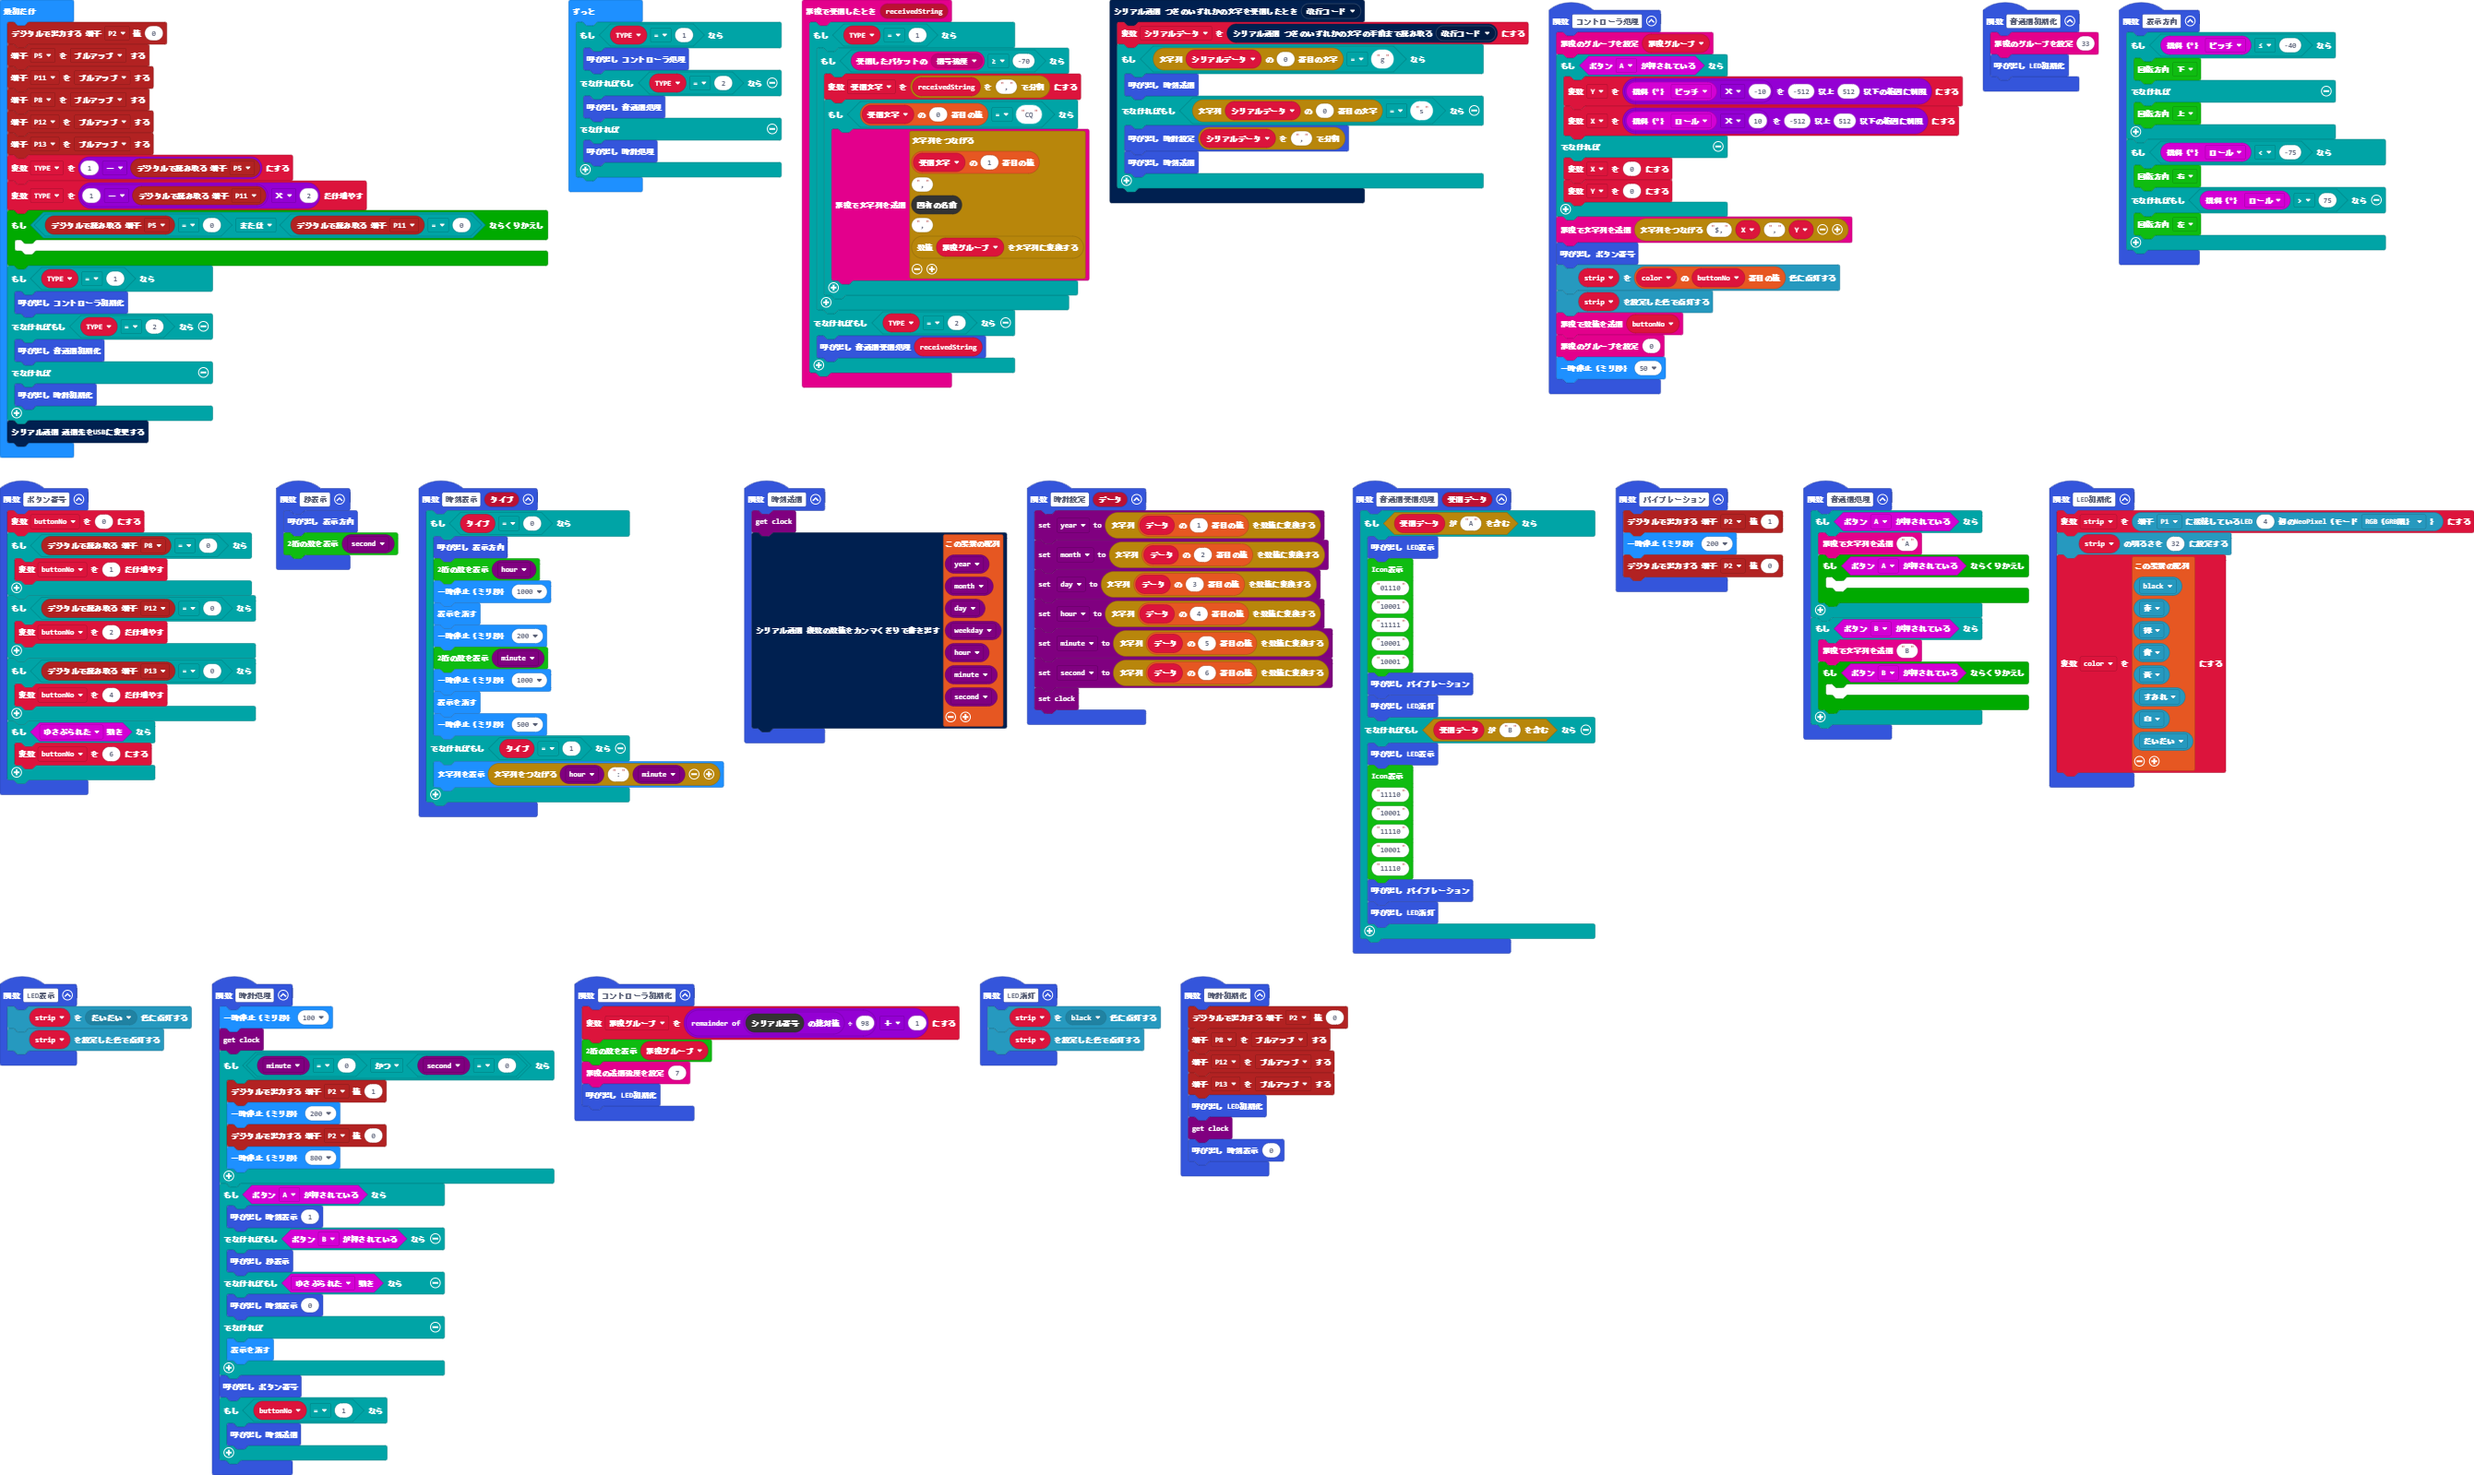
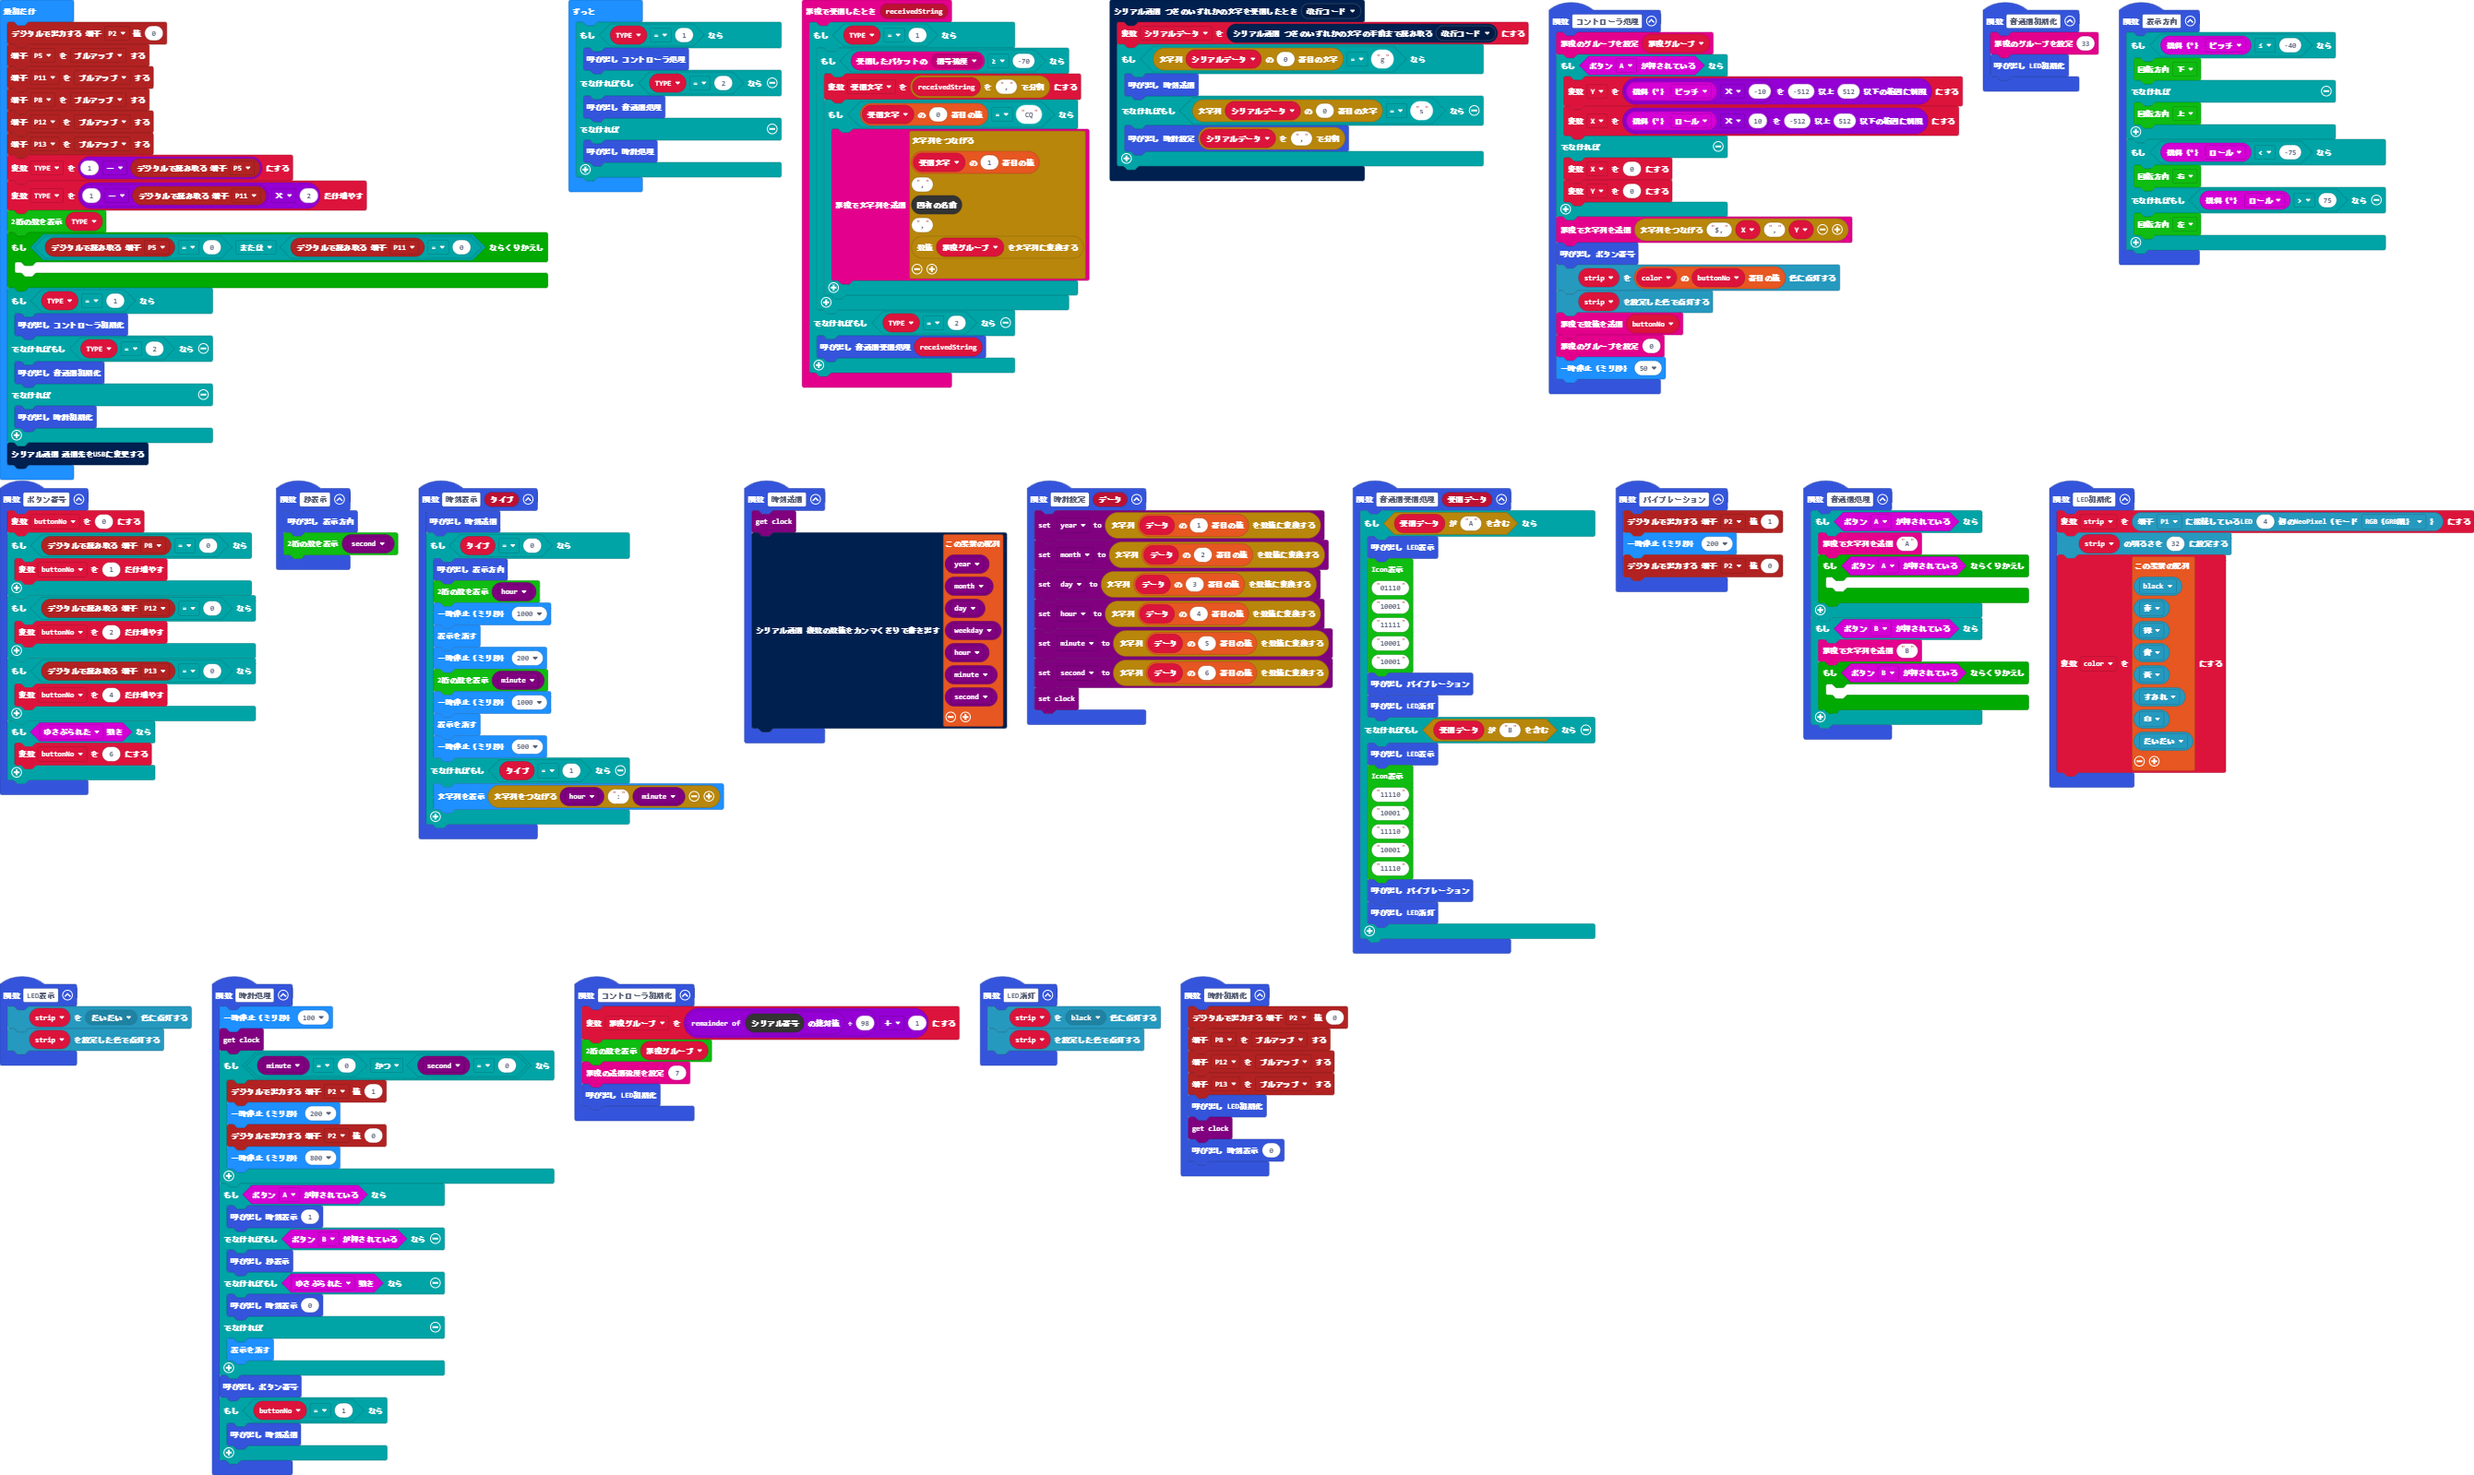
更新 main.blocks, main.ts

Changed region(s): [[0.0, 0.1226, 0.2167, 0.3371], [0.1548, 0.3371, 0.3096, 0.5822], [0.4334, 0.0919, 0.6192, 0.1532]]

diff --git a/main.ts b/main.ts
@@ -111,7 +111,6 @@ serial.onDataReceived(serial.delimiters(Delimiters.NewLine), function () {
         時刻送信()
     } else if (シリアルデータ.charAt(0) == "s") {
         時計設定(シリアルデータ.split(","))
-        時刻送信()
     }
 })
 function LED表示 () {
@@ -197,6 +196,7 @@ function LED初期化 () {
     ]
 }
 function 時刻表示 (タイプ: number) {
+    時刻送信()
     if (タイプ == 0) {
         表示方向()
         watchfont.showNumber2(ds3231.getClockData(clockData.hour))
@@ -228,6 +228,7 @@ pins.setPull(DigitalPin.P12, PinPullMode.PullUp)
 pins.setPull(DigitalPin.P13, PinPullMode.PullUp)
 TYPE = 1 - pins.digitalReadPin(DigitalPin.P5)
 TYPE += (1 - pins.digitalReadPin(DigitalPin.P11)) * 2
+watchfont.showNumber2(TYPE)
 while (pins.digitalReadPin(DigitalPin.P5) == 0 || pins.digitalReadPin(DigitalPin.P11) == 0) {
 	
 }
